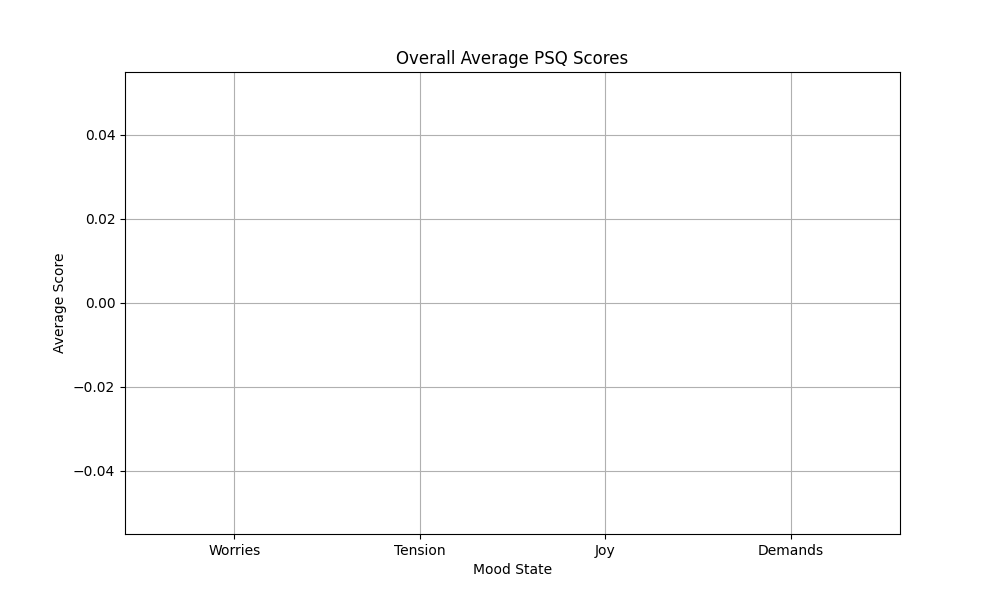
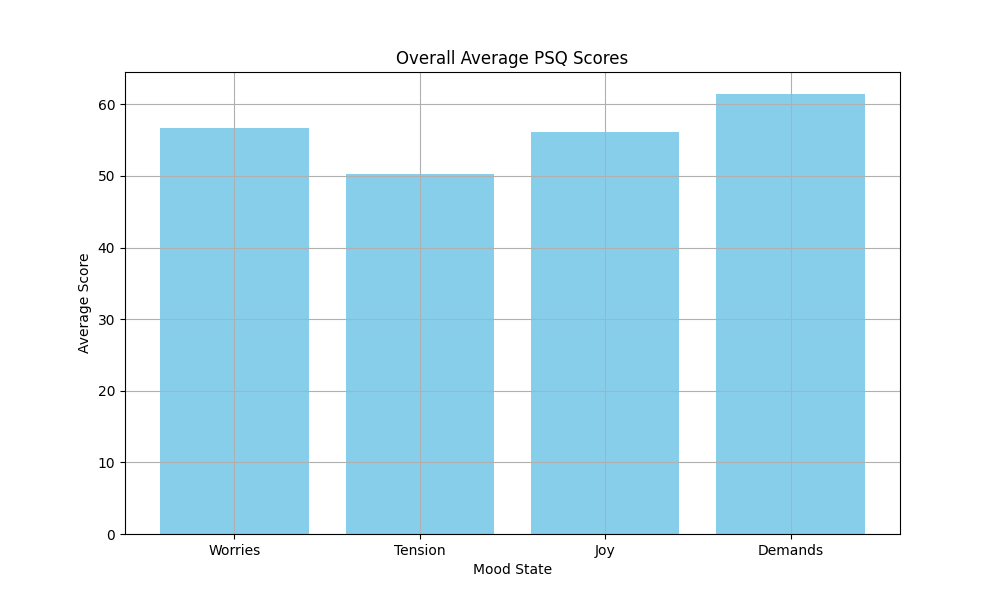
verbesserung psq 20, weil schon wieder fehlermeldu

diff --git a/POMS/PSQ20 test.py b/POMS/PSQ20 test.py
@@ -15,18 +15,17 @@ def convert_psq_values(value):
     else:
         return value
 
-
 def convert_psq_columns(df):
     for column in df.columns:
         if "PSQ20 >>" in column:
             df[column] = df[column].apply(convert_psq_values)
     return df
 
-
 def add_transformed_values(df):
     transformed_columns = ['PSQ20 >> You feel rested', 'PSQ20 >> You feel calm', 'PSQ20 >> You have enough time for yourself']
     for col in transformed_columns:
-        df[col] = 6 - df[col]  # Subtract the value from 6 to invert the score
+        df[col] = pd.to_numeric(df[col], errors='coerce')
+        df[col] = 6 - df[col]  
     return df
 
 folder_path = 'POMS'
@@ -35,12 +34,12 @@ output_file = 'POMS/questionnaire_with_transformed_scores.csv'
 
 data_with_scores = pd.read_csv(os.path.join(folder_path, input_file))
 
+data_with_scores = convert_psq_columns(data_with_scores)
 data_with_transformed_values = add_transformed_values(data_with_scores)
 
 data_with_transformed_values.to_csv(output_file, index=False)
 
 print("Transformed values added and saved to:", output_file)
-
 
 def calculate_psq_scores(df):
     score_mappings = {
@@ -54,10 +53,6 @@ def calculate_psq_scores(df):
     print("Name of the first participant:", first_participant_name)
     participant_scores_psq = pd.DataFrame(columns=['Participant', 'Condition', 'Gender', 'Worries', 'Tension', 'Joy', 'Demands'])
 
-    #for index, participant in df.iterrows():
-       # participant_scores_psq.loc[index] = [index + 1, participant['Condition']] + [0] * (len(participant_scores_psq.columns) - 2)
-     # Iterate over participants to calculate their scores
-        # Iterate over participants to calculate their scores
     for index, participant in df.iterrows():
         participant_scores_psq.loc[index] = [index + 1, participant['Condition'], participant['Gender'], 0, 0, 0, 0]
 
@@ -90,7 +85,6 @@ def calculate_psq_scores(df):
     print(participant_scores_psq)
 
     return participant_scores_psq
-
 
 folder_path = 'POMS'
 input_file = 'questionnaire.csv'
